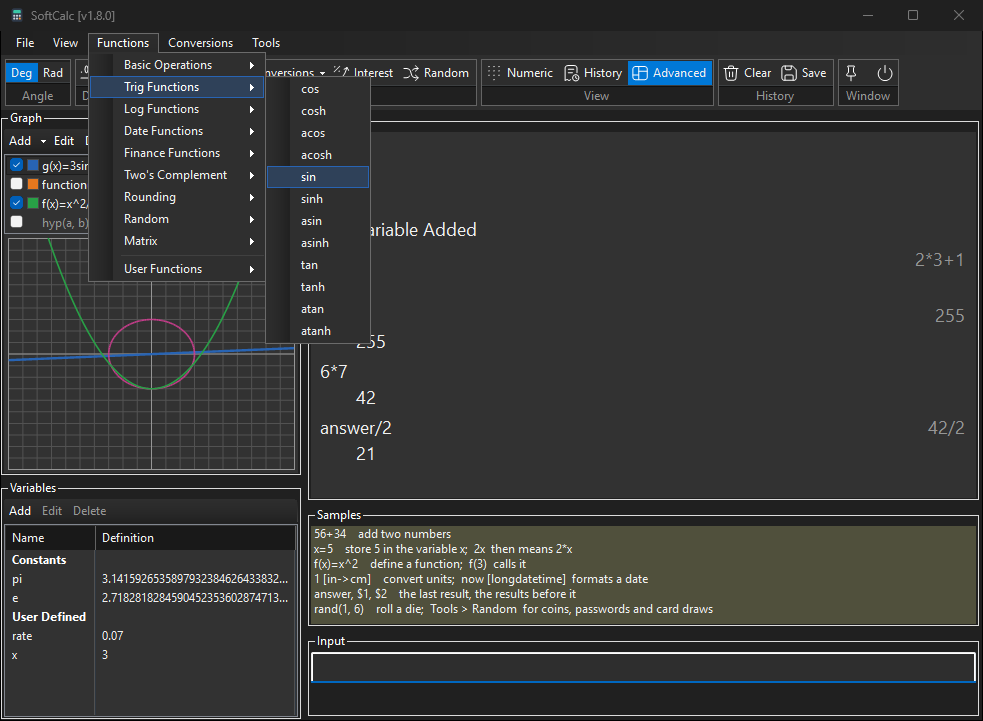
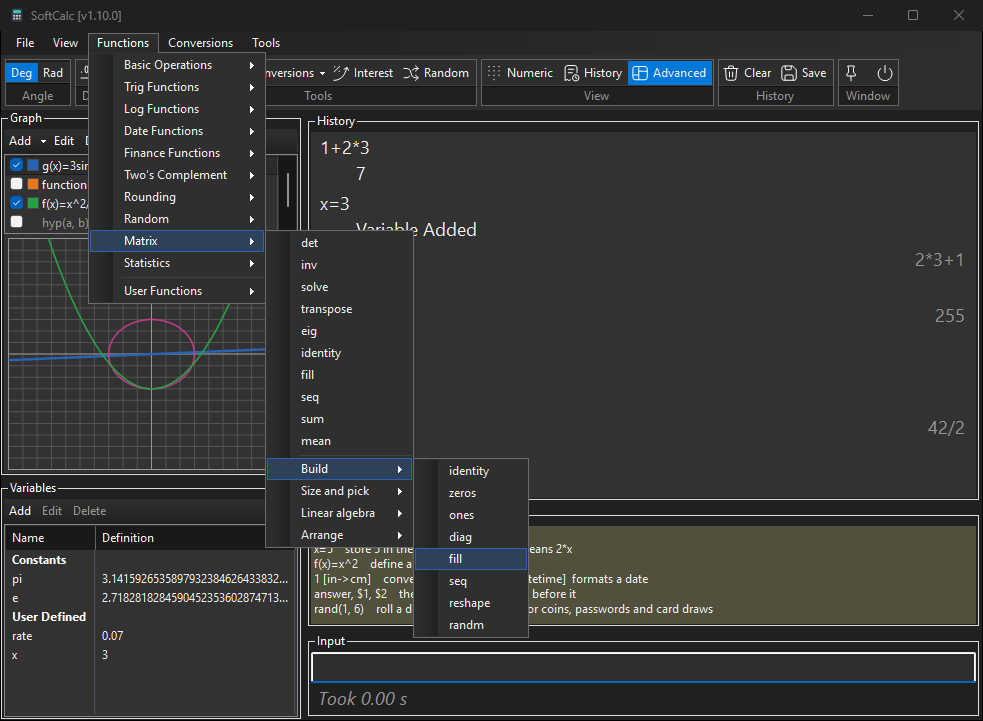
help: Functions > Matrix submenus and Functions > Statistics
Help 03's group table and help 19's function list follow the new menus;
menu-functions now shows Matrix > Build open.

diff --git a/tools/HelpShots/Program.cs b/tools/HelpShots/Program.cs
@@ -207,7 +207,7 @@ internal sealed class Shots(MainForm form, EngineSession session, string outDir,
 		//==================================================================
 		await TypeAsync("");
 		await MenuShotAsync("menu-view", "View");
-		await MenuShotAsync("menu-functions", "Functions", "Trig Functions", "sin");
+		await MenuShotAsync("menu-functions", "Functions", "Matrix", "Build", "fill");    // the ten on top, then the submenus (2026-11-26)
 		await TypeAsync("5");
 		await MenuShotAsync("menu-conversions", "Conversions", "Length", "ft", "m");
 		await TypeAsync("250");

diff --git a/help/19-matrices.md b/help/19-matrices.md
@@ -155,7 +155,8 @@ norm([3, 4])                  => 5
 
 ## Statistics and lists
 
-These take numbers and lists mixed, and use every cell:
+These take numbers and lists mixed, and use every cell; the functions
+menu has them under Statistics:
 
 ```calc
 sum([1, 2, 3], 4)             => 10
@@ -236,16 +237,21 @@ lists the errors of lists and matrices.
 ## The functions, by group
 
 <!-- desktop -->
-Functions > Matrix lists them all.
+Functions > Matrix has the ten used most on top (`det` `inv` `solve`
+`transpose` `eig` `identity` `fill` `seq` `sum` `mean`), then a submenu
+for each group below; the statistics are in Functions > Statistics.
 <!-- /desktop -->
 <!-- web -->
-func > Matrix lists them all.
+func > Matrix has the ten used most on top (`det` `inv` `solve`
+`transpose` `eig` `identity` `fill` `seq` `sum` `mean`), then a line
+for each group below (`Build ›`); the statistics are in func >
+Statistics.
 <!-- /web -->
 
 | group | functions |
 |---|---|
-| make | `identity` `zeros` `ones` `fill` `diag` `seq` `reshape` `randm` |
-| size and cells | `rows` `cols` `len` `at` `row` `col` |
-| linear algebra | `transpose` `det` `inv` `trace` `rank` `solve` `eig` `dot` `cross` `norm` |
-| statistics | `sum` `mean` `median` `prod` `min` `max` `count` `stdev` `stdevp` `variance` `variancep` |
-| lists | `sort` `reverse` `cumsum` |
+| Build | `identity` `zeros` `ones` `diag` `fill` `seq` `reshape` `randm` |
+| Size and pick | `rows` `cols` `len` `at` `row` `col` |
+| Linear algebra | `transpose` `det` `inv` `trace` `rank` `solve` `eig` `dot` `cross` `norm` |
+| Arrange | `sort` `reverse` `cumsum` |
+| Statistics (its own menu) | `sum` `prod` `min` `max` `count` `mean` `median` `stdev` `stdevp` `variance` `variancep` |

diff --git a/help/03-functions.md b/help/03-functions.md
@@ -17,7 +17,7 @@ function by group. Picking one:
 - an operator (`+`, `^`, `mod`, `!`, ...) is put at the caret too.
 
 <!-- desktop -->
-![Functions menu with Trig Functions open](img/menu-functions.light.png)
+![Functions menu with Matrix > Build open](img/menu-functions.light.png)
 
 User Functions, at the bottom, lists the functions you defined
 (section *Variables and user functions*).
@@ -48,7 +48,8 @@ log10(1000)           => 3
 | Two's Complement | `twos` `signed` |
 | Rounding | `round` `ceil` `floor` |
 | Random | `rand` `rands` `randbeta` `randtri` `randexp` `randpeaks` `card` (section *Random*) |
-| Matrix | lists and matrices: `det` `inv` `solve` `sum` `mean` `fill` `seq` and more (section *Lists and matrices*) |
+| Matrix | the ten used most (`det` `inv` `solve` `transpose` `eig` `identity` `fill` `seq` `sum` `mean`), then Build, Size and pick, Linear algebra and Arrange (section *Lists and matrices*) |
+| Statistics | `sum` `prod` `min` `max` `count` `mean` `median` `stdev` `stdevp` `variance` `variancep`, on numbers or lists (section *Lists and matrices*) |
 
 ## Angles
 
